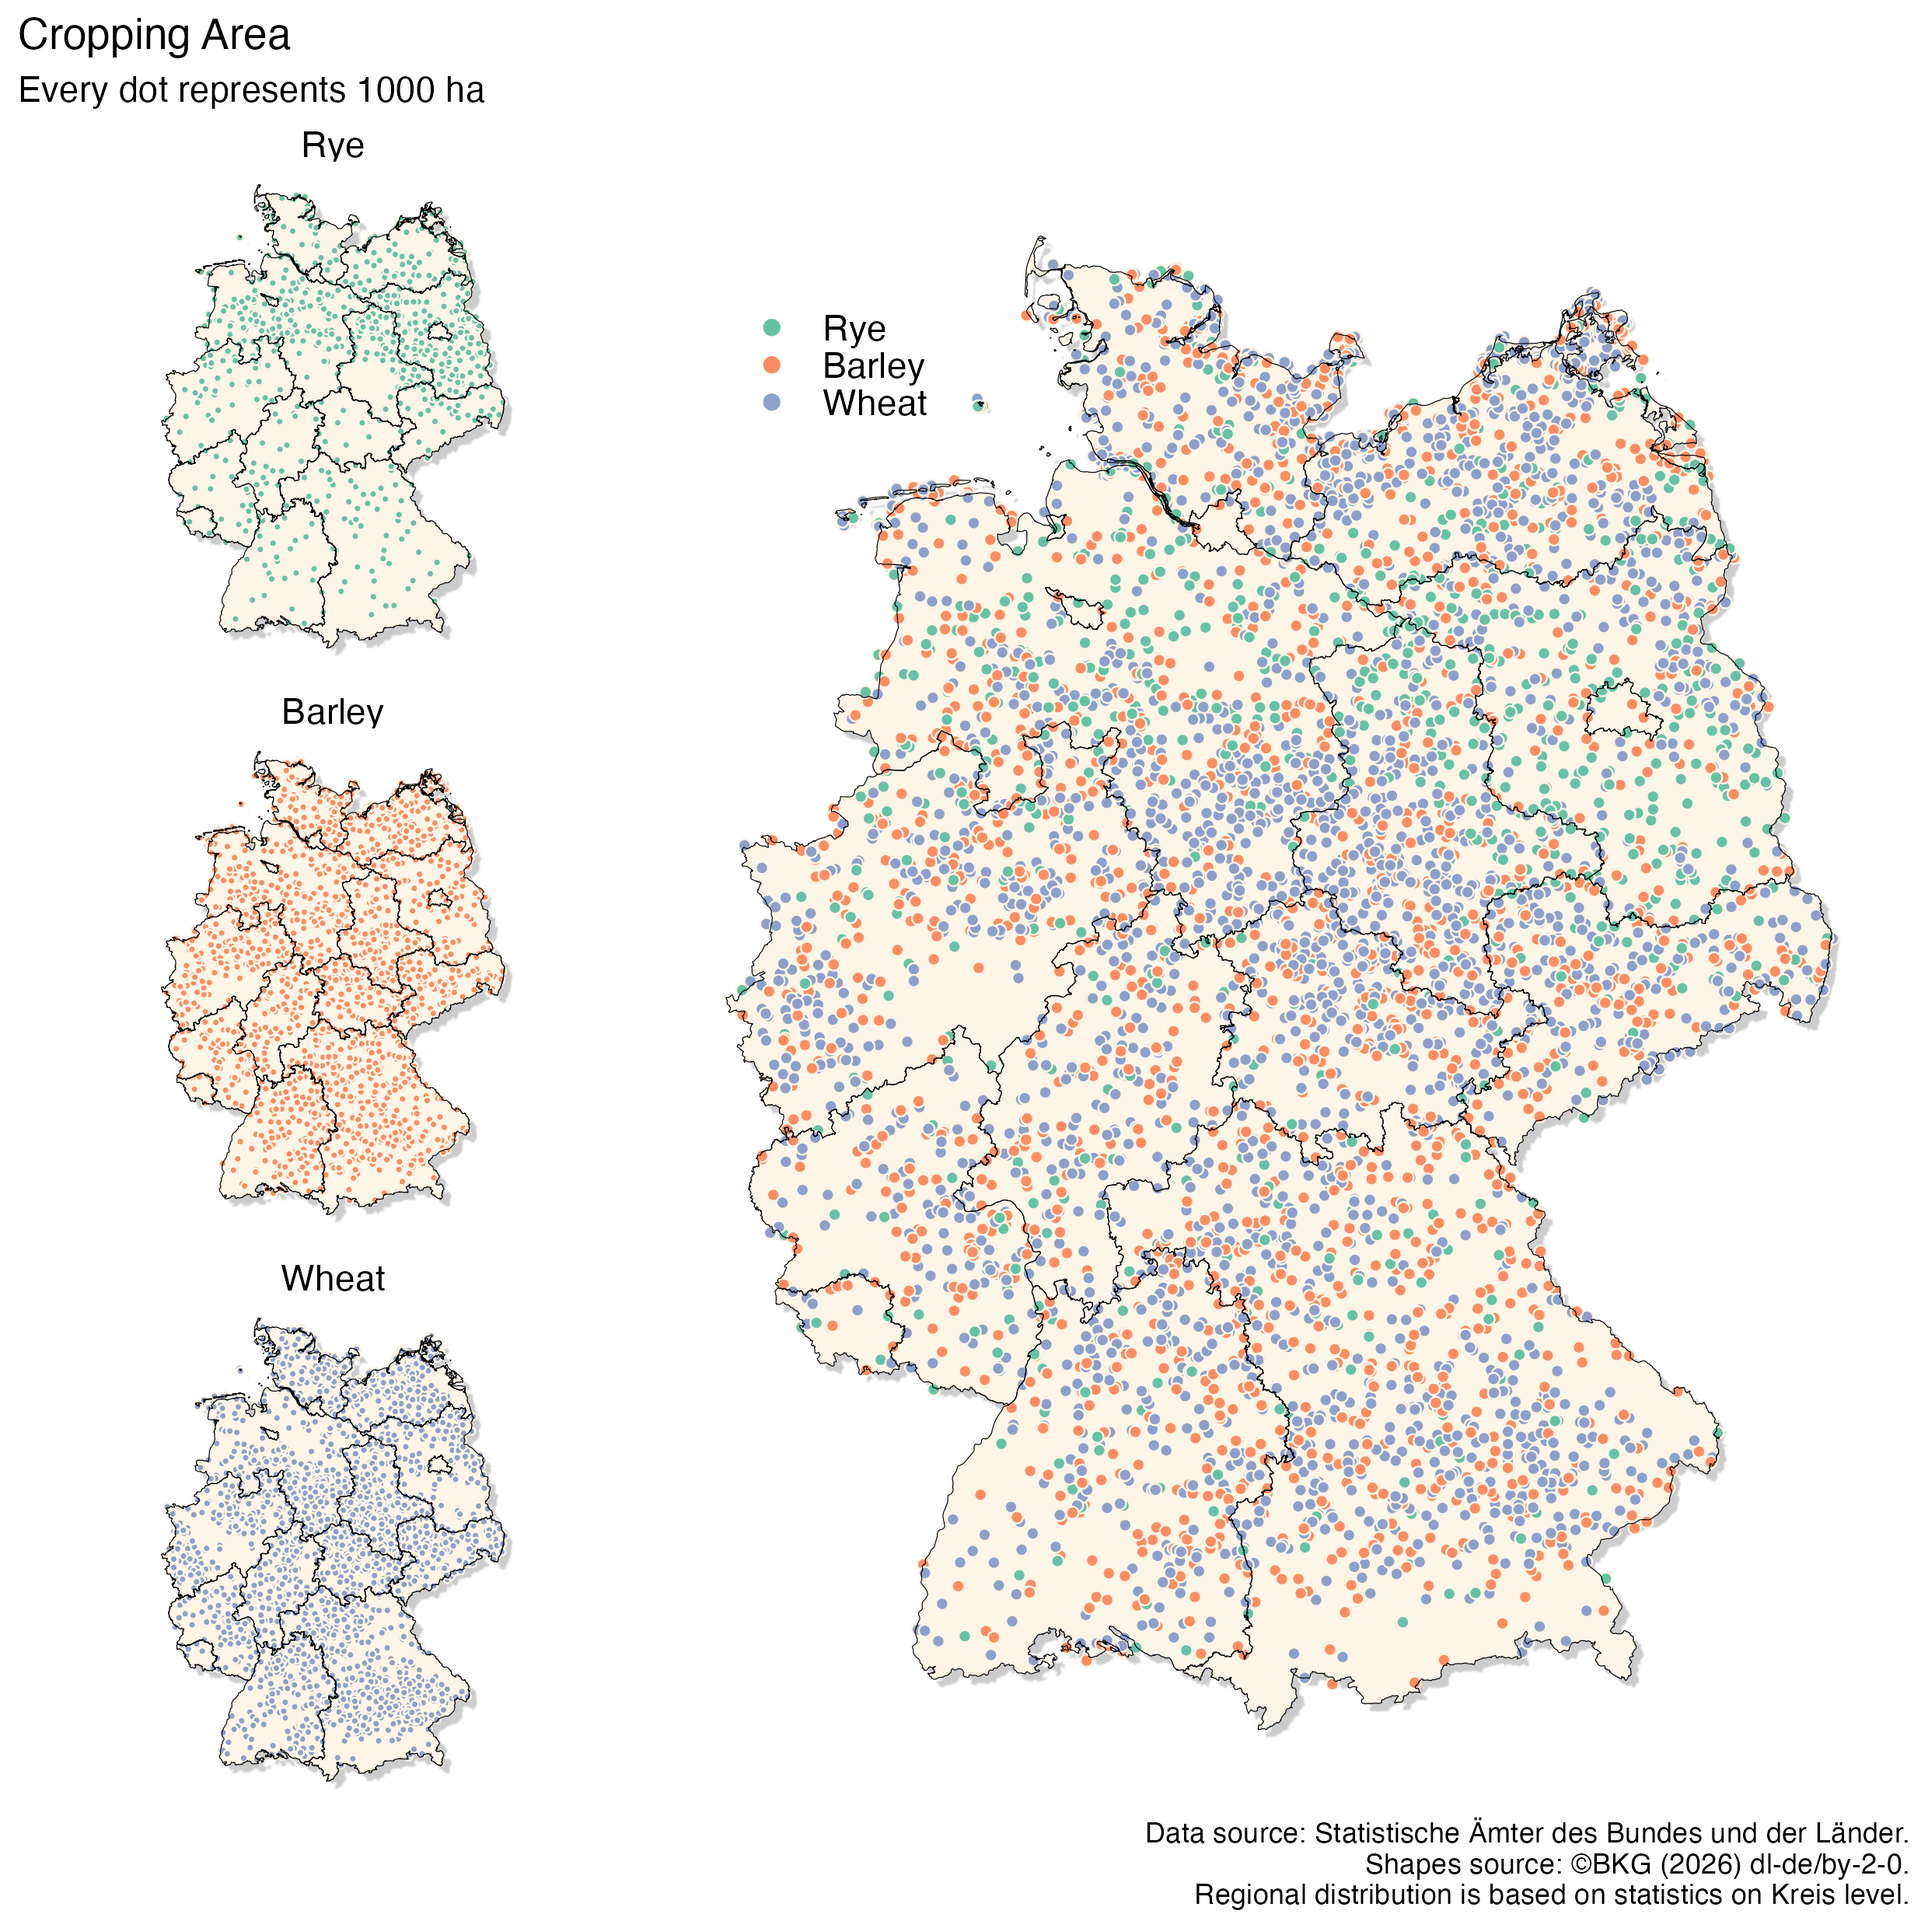
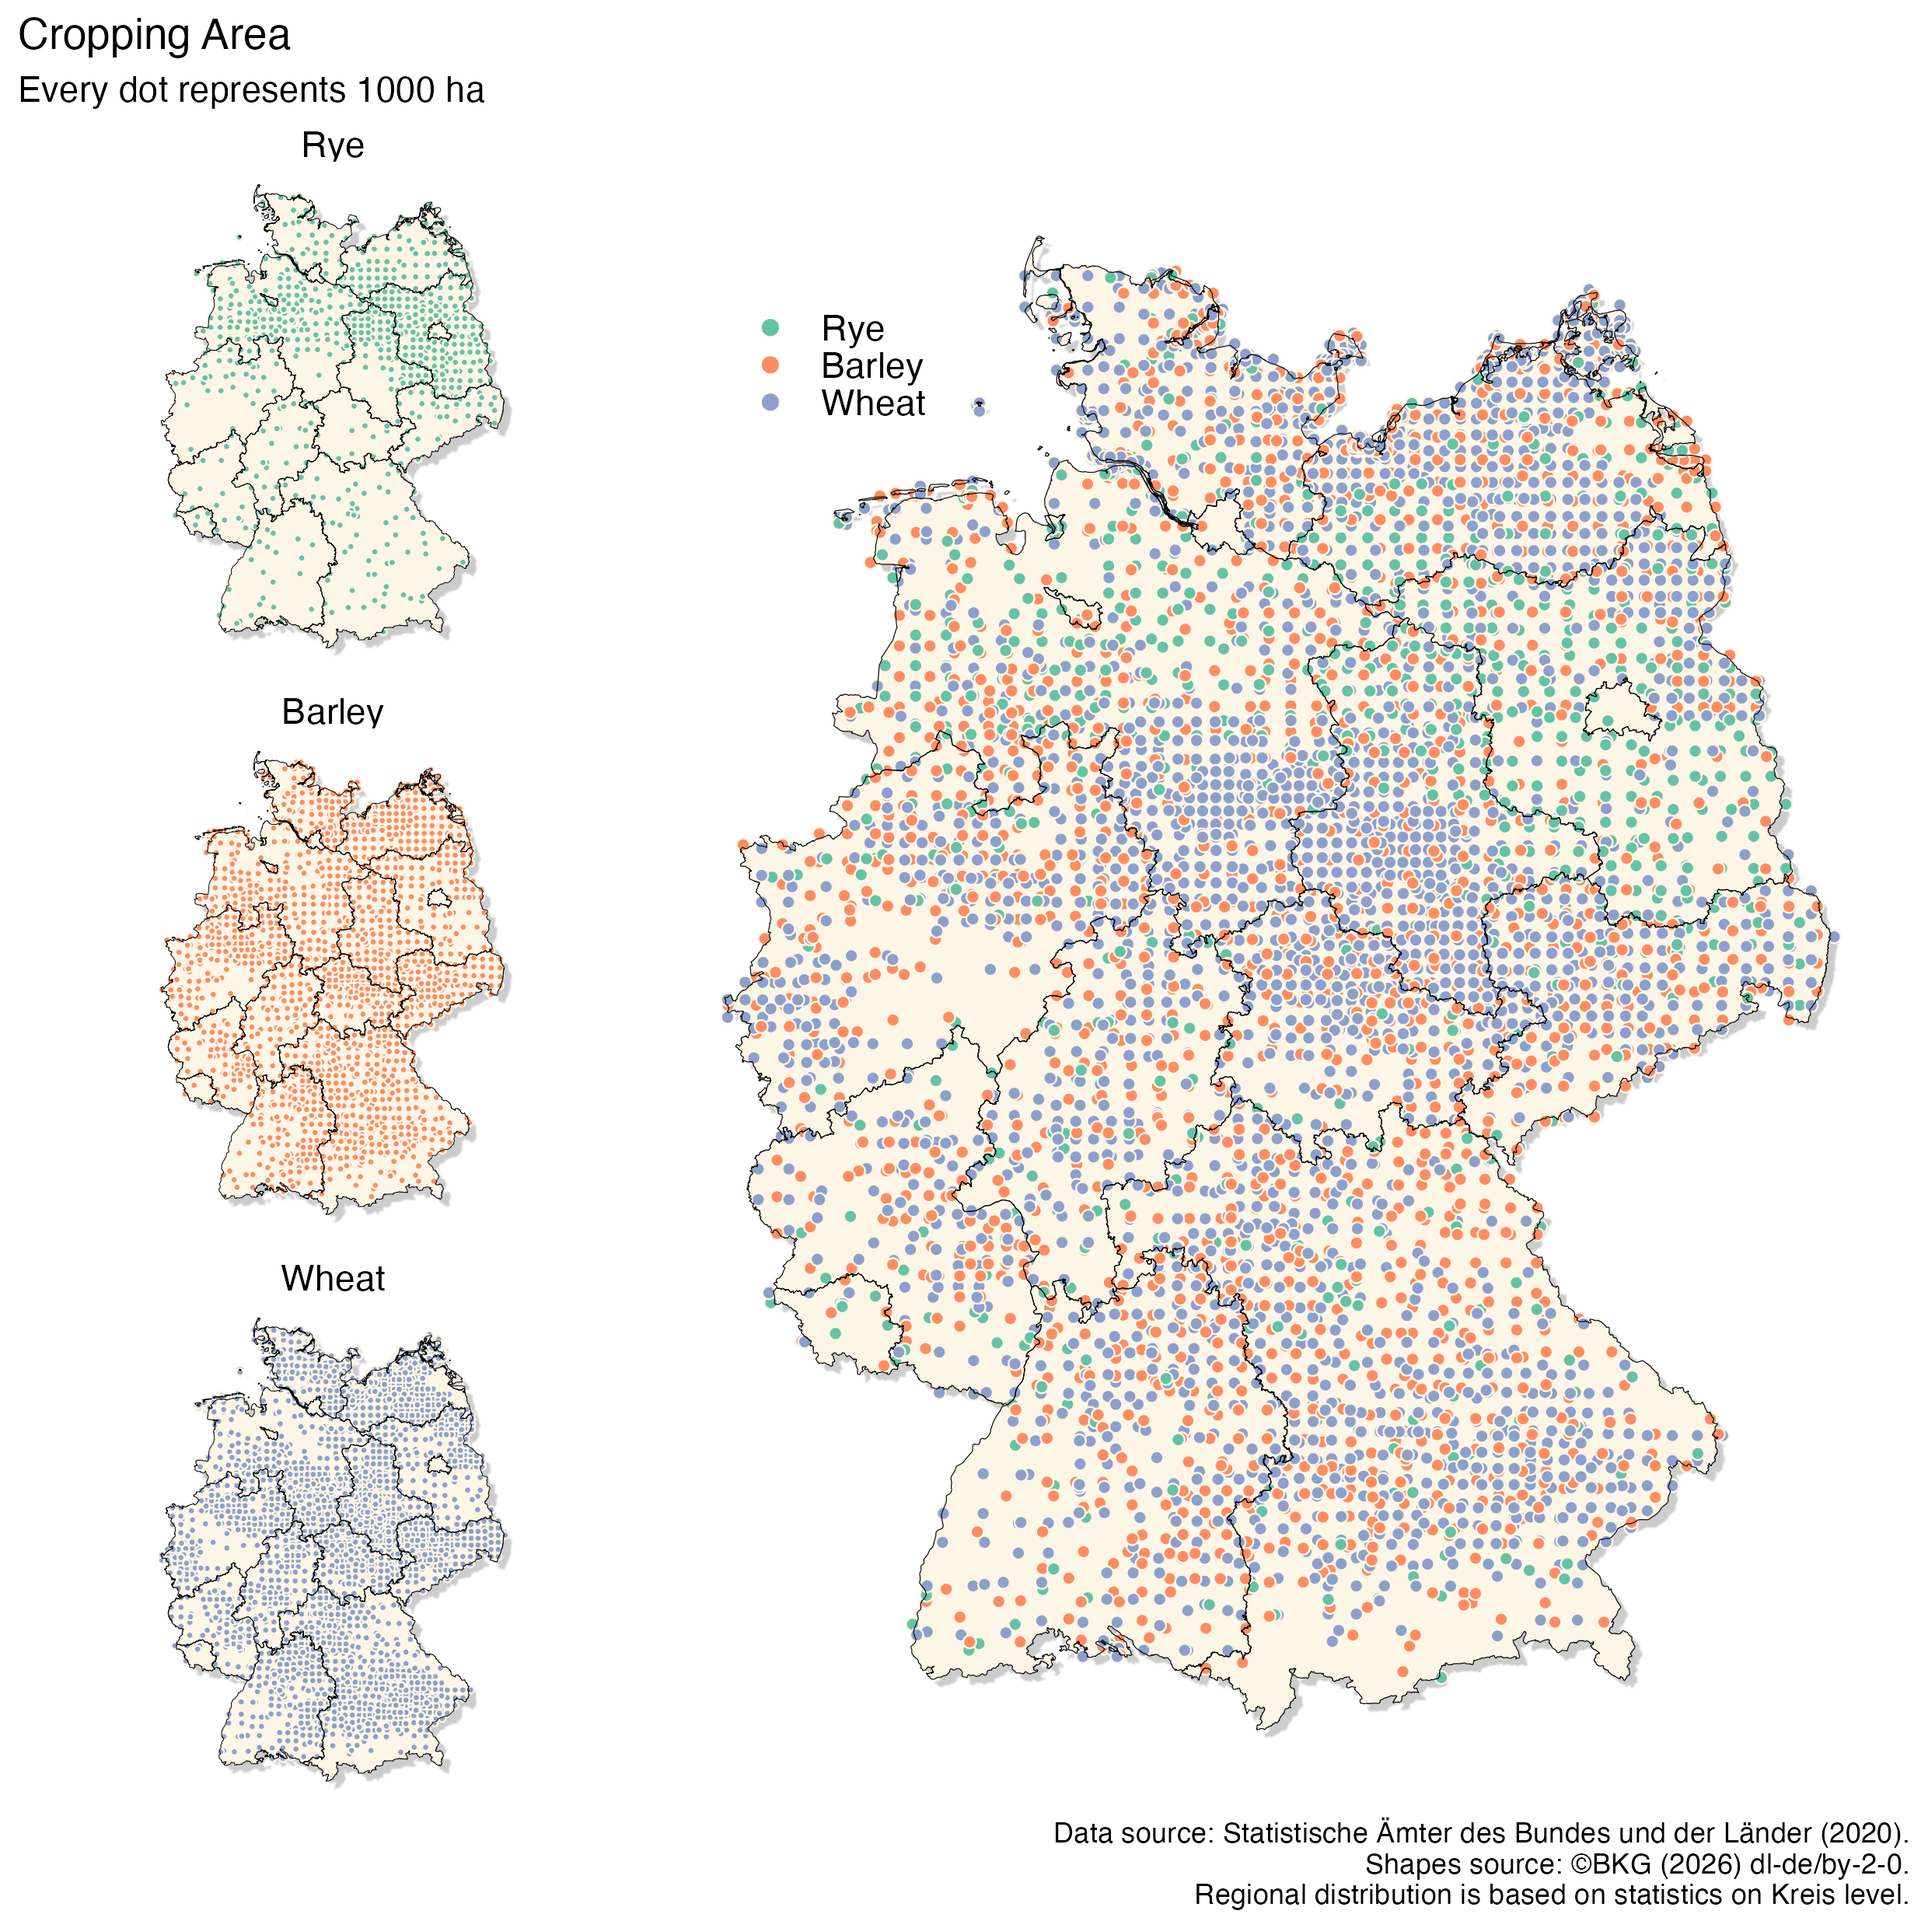
Minor visual tweaks and changed sampling type.

diff --git a/README.md b/README.md
@@ -89,7 +89,7 @@ wheat_dat <- kreis_shape_buffered |>
   left_join(wheat_dat) |> 
   mutate(n_dots = round(Fläche_ha * dot_multiplier))  |> 
   filter(n_dots > 0) |> 
-  mutate(pts = map2(geometry, n_dots, ~ st_sample(.x, size = .y, type = "random", exact = TRUE)),
+  mutate(pts = map2(geometry, n_dots, ~ st_sample(.x, size = .y, type = "regular", exact = TRUE)),
          )  |> 
   select(Kreis_code, pts)  |>
   `st_geometry<-`(NULL) |> 
@@ -103,7 +103,7 @@ barley_dat <- kreis_shape_buffered |>
   left_join(barley_dat) |> 
   mutate(n_dots = round(Fläche_ha * dot_multiplier))  |> 
   filter(Fläche_ha > 0) |> 
-  mutate(pts = map2(geometry, n_dots, ~ st_sample(.x, size = .y, type = "random", exact = TRUE)),
+  mutate(pts = map2(geometry, n_dots, ~ st_sample(.x, size = .y, type = "regular", exact = TRUE)),
          )  |> 
   select(Kreis_code, pts)  |>
   `st_geometry<-`(NULL) |> 
@@ -117,7 +117,7 @@ rye_dat <- kreis_shape_buffered |>
   left_join(rye_dat) |> 
   mutate(n_dots = round(Fläche_ha * dot_multiplier))  |> 
   filter(Fläche_ha > 0) |> 
-  mutate(pts = map2(geometry, n_dots, ~ st_sample(.x, size = .y, type = "random", exact = TRUE)),
+  mutate(pts = map2(geometry, n_dots, ~ st_sample(.x, size = .y, type = "regular", exact = TRUE)),
          )  |> 
   select(Kreis_code, pts)  |>
   `st_geometry<-`(NULL) |> 
@@ -150,8 +150,8 @@ plot_1 <- ggplot() +
   plot.background  = element_rect(fill = "white", color = NA)) +
   facet_wrap(~crop, ncol = 1) +
   ggfx::with_shadow(geom_sf(data = bundesland_shape, fill = "oldlace", colour = "white", linewidth = 0), colour = "grey80") +
-  geom_sf(data = illu_dots, shape = 21, stroke = 0.4, size = 0.8, aes(fill = crop), colour = "oldlace", alpha = 1) +
-  geom_sf(data = bundesland_shape, fill = NA, colour = "black", linewidth = 0.13) +
+  geom_sf(data = illu_dots, shape = 21, stroke = 0.4, size = 0.75, aes(fill = crop), colour = "oldlace", alpha = 1) +
+  geom_sf(data = bundesland_shape, fill = NA, colour = "black", linewidth = 0.11) +
   coord_sf() +
   labs(fill = "",
        # caption = "Data source: Statistische Ämter des Bundes und der Länder"
@@ -177,7 +177,7 @@ plot_2 <- ggplot() +
           panel.background = element_rect(fill = "white", color = NA),
   plot.background  = element_rect(fill = "white", color = NA)) +
   ggfx::with_shadow(geom_sf(data = bundesland_shape, fill = "oldlace", colour = "white", linewidth = 0), colour = "grey80") +
-  geom_sf(data = illu_dots, shape = 21, stroke = 0.4, size = 1.5, aes(fill = crop), colour = "oldlace", alpha = 1) +
+  geom_sf(data = illu_dots, shape = 21, stroke = 0.4, size = 1.6, aes(fill = crop), colour = "oldlace", alpha = 1) +
   geom_sf(data = bundesland_shape, fill = NA, colour = "black", linewidth = 0.13) +
   coord_sf() +
   labs(fill = "",
@@ -195,7 +195,7 @@ plot_ <- plot_1 + plot_2 +
   plot_layout(widths = c(0.5, 1))+ plot_annotation(
   title = "Cropping Area",
   subtitle = "Every dot represents 1000 ha",
-  caption = "Data source: Statistische Ämter des Bundes und der Länder.
+  caption = "Data source: Statistische Ämter des Bundes und der Länder (2020).
   Shapes source: ©BKG (2026) dl-de/by-2-0.
   Regional distribution is based on statistics on Kreis level."
 )
